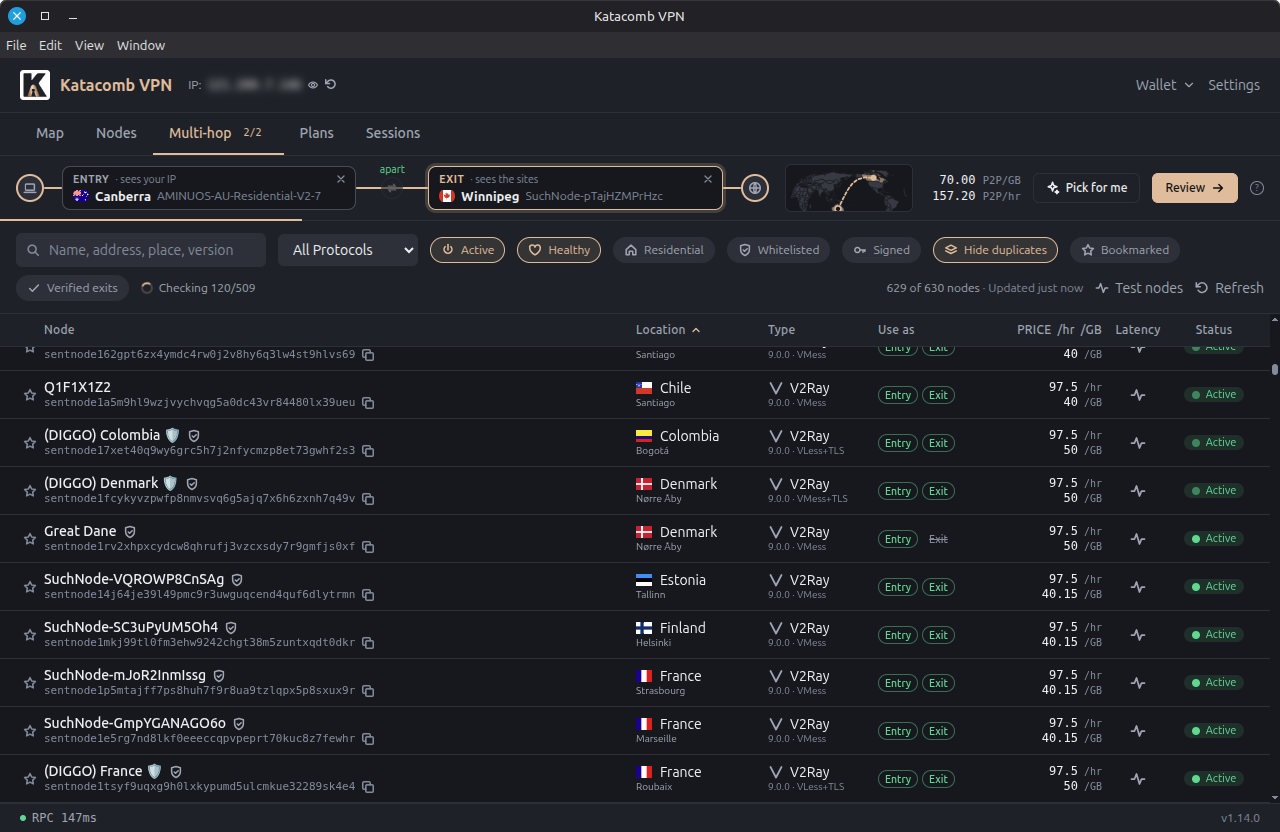
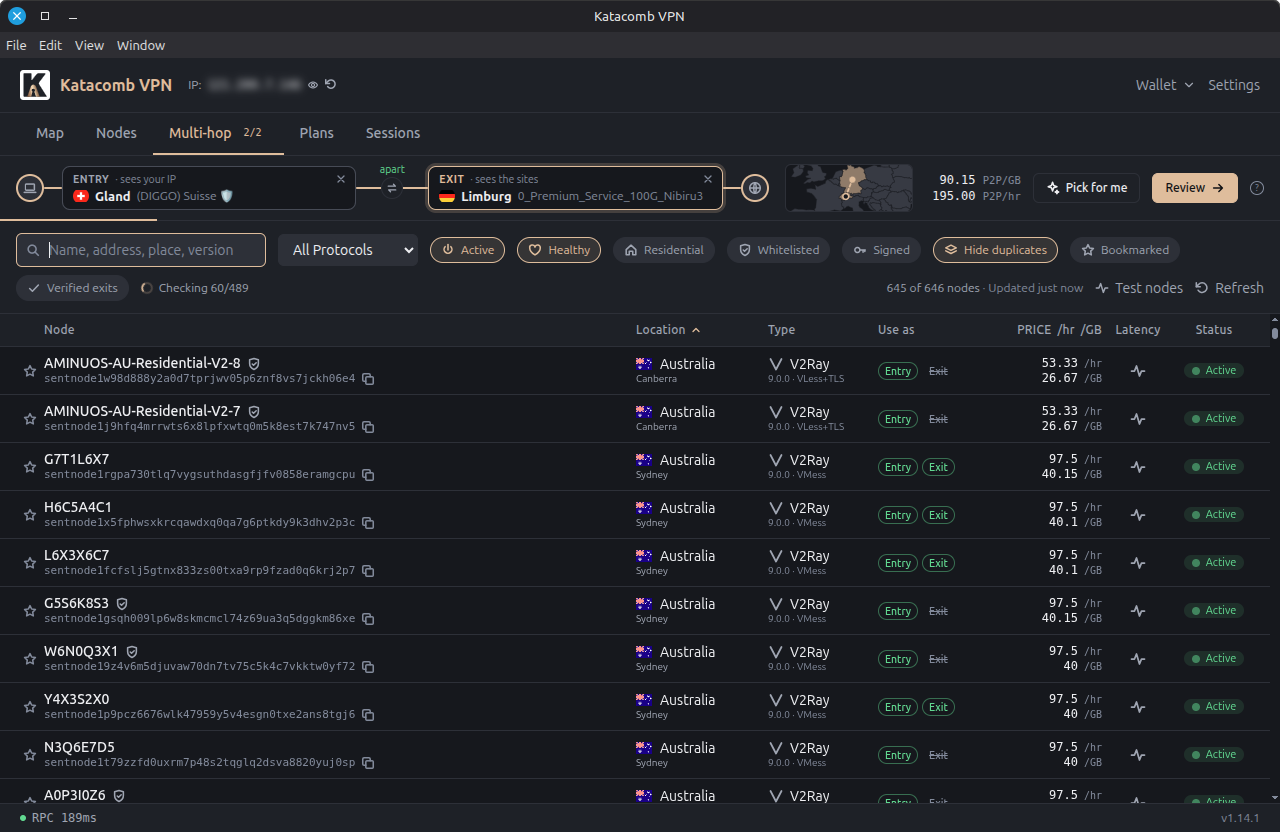
Bump Katacomb VPN fallback to v1.14.1 and update screenshots

diff --git a/plugins/katacomb-release/index.js b/plugins/katacomb-release/index.js
@@ -4,21 +4,21 @@ const RELEASES = `https://github.com/${REPO}/releases`;
 // Used when the GitHub API can't be reached, so an offline or rate-limited
 // build still produces a working page instead of failing.
 const FALLBACK = {
-  version: '1.14.0',
+  version: '1.14.1',
   stale: true,
-  releaseUrl: `${RELEASES}/tag/v1.14.0`,
+  releaseUrl: `${RELEASES}/tag/v1.14.1`,
   deb: {
-    name: 'katacomb-vpn_1.14.0_amd64.deb',
-    url: `${RELEASES}/download/v1.14.0/katacomb-vpn_1.14.0_amd64.deb`,
+    name: 'katacomb-vpn_1.14.1_amd64.deb',
+    url: `${RELEASES}/download/v1.14.1/katacomb-vpn_1.14.1_amd64.deb`,
     size: '113 MB',
   },
   appimage: {
-    name: 'katacomb-vpn-1.14.0.AppImage',
-    url: `${RELEASES}/download/v1.14.0/katacomb-vpn-1.14.0.AppImage`,
+    name: 'katacomb-vpn-1.14.1.AppImage',
+    url: `${RELEASES}/download/v1.14.1/katacomb-vpn-1.14.1.AppImage`,
     size: '132 MB',
   },
-  checksums: `${RELEASES}/download/v1.14.0/SHA256SUMS`,
-  signature: `${RELEASES}/download/v1.14.0/SHA256SUMS.asc`,
+  checksums: `${RELEASES}/download/v1.14.1/SHA256SUMS`,
+  signature: `${RELEASES}/download/v1.14.1/SHA256SUMS.asc`,
 };
 
 const megabytes = (bytes) =>
